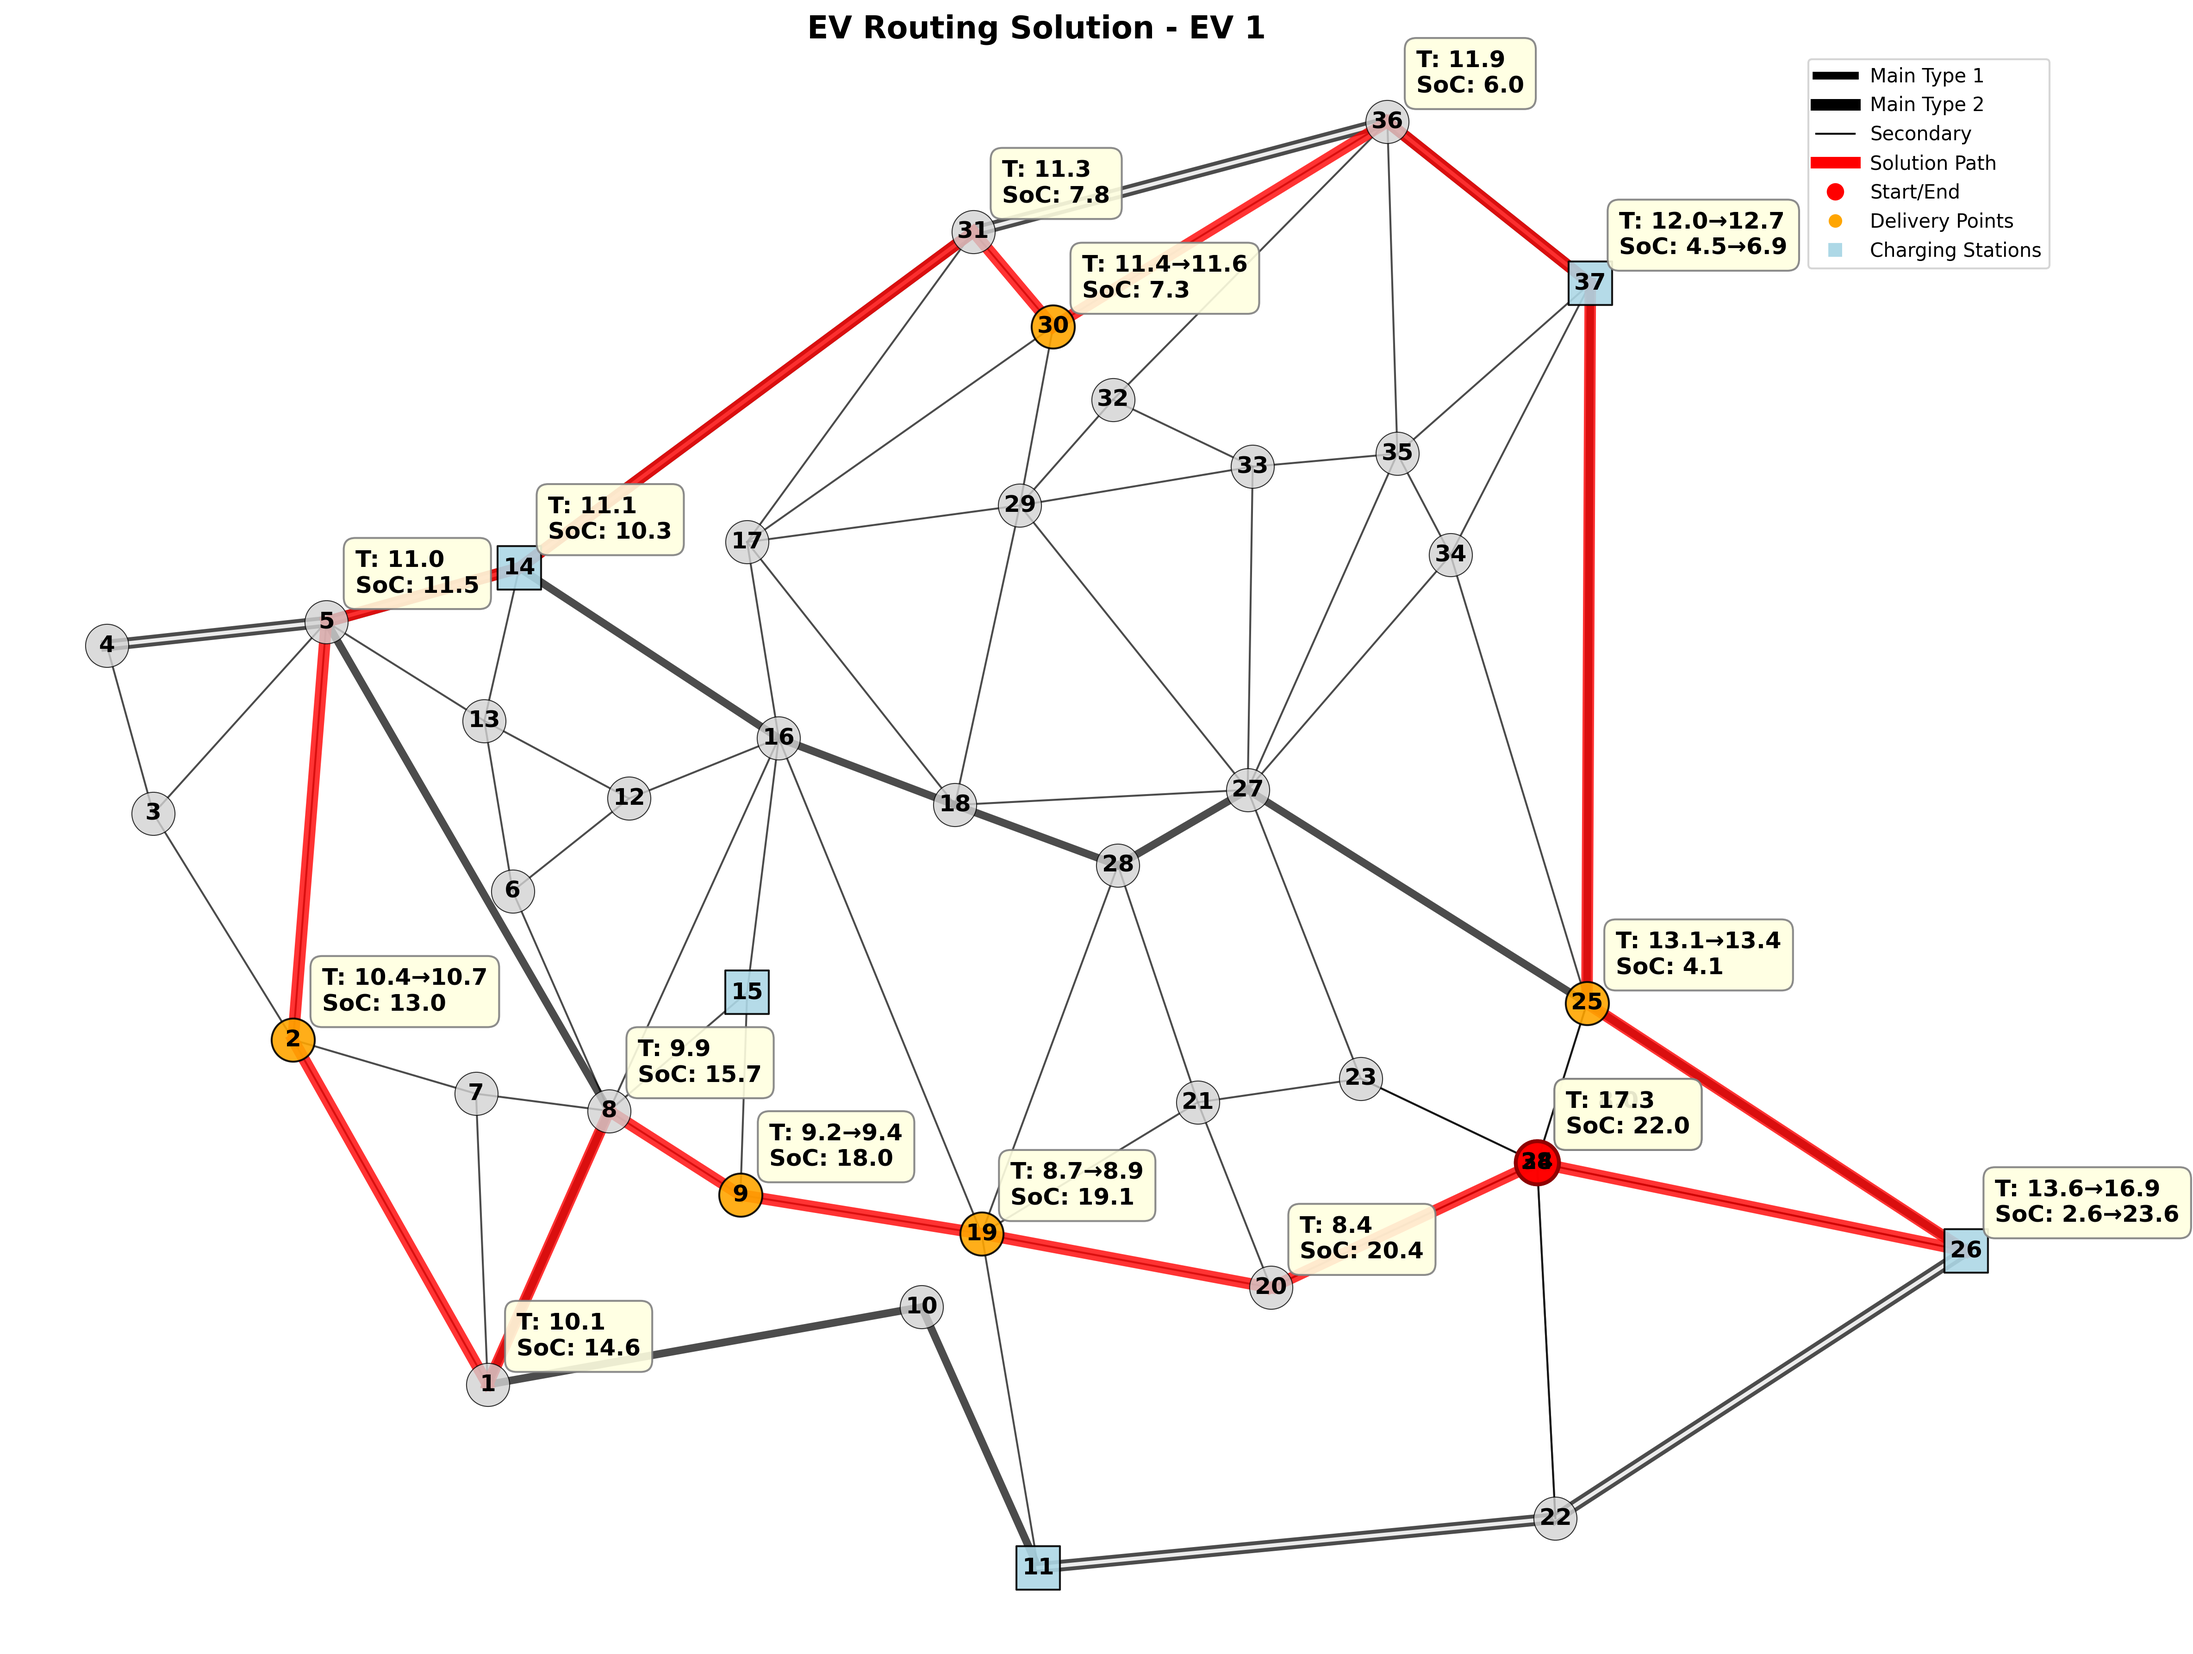
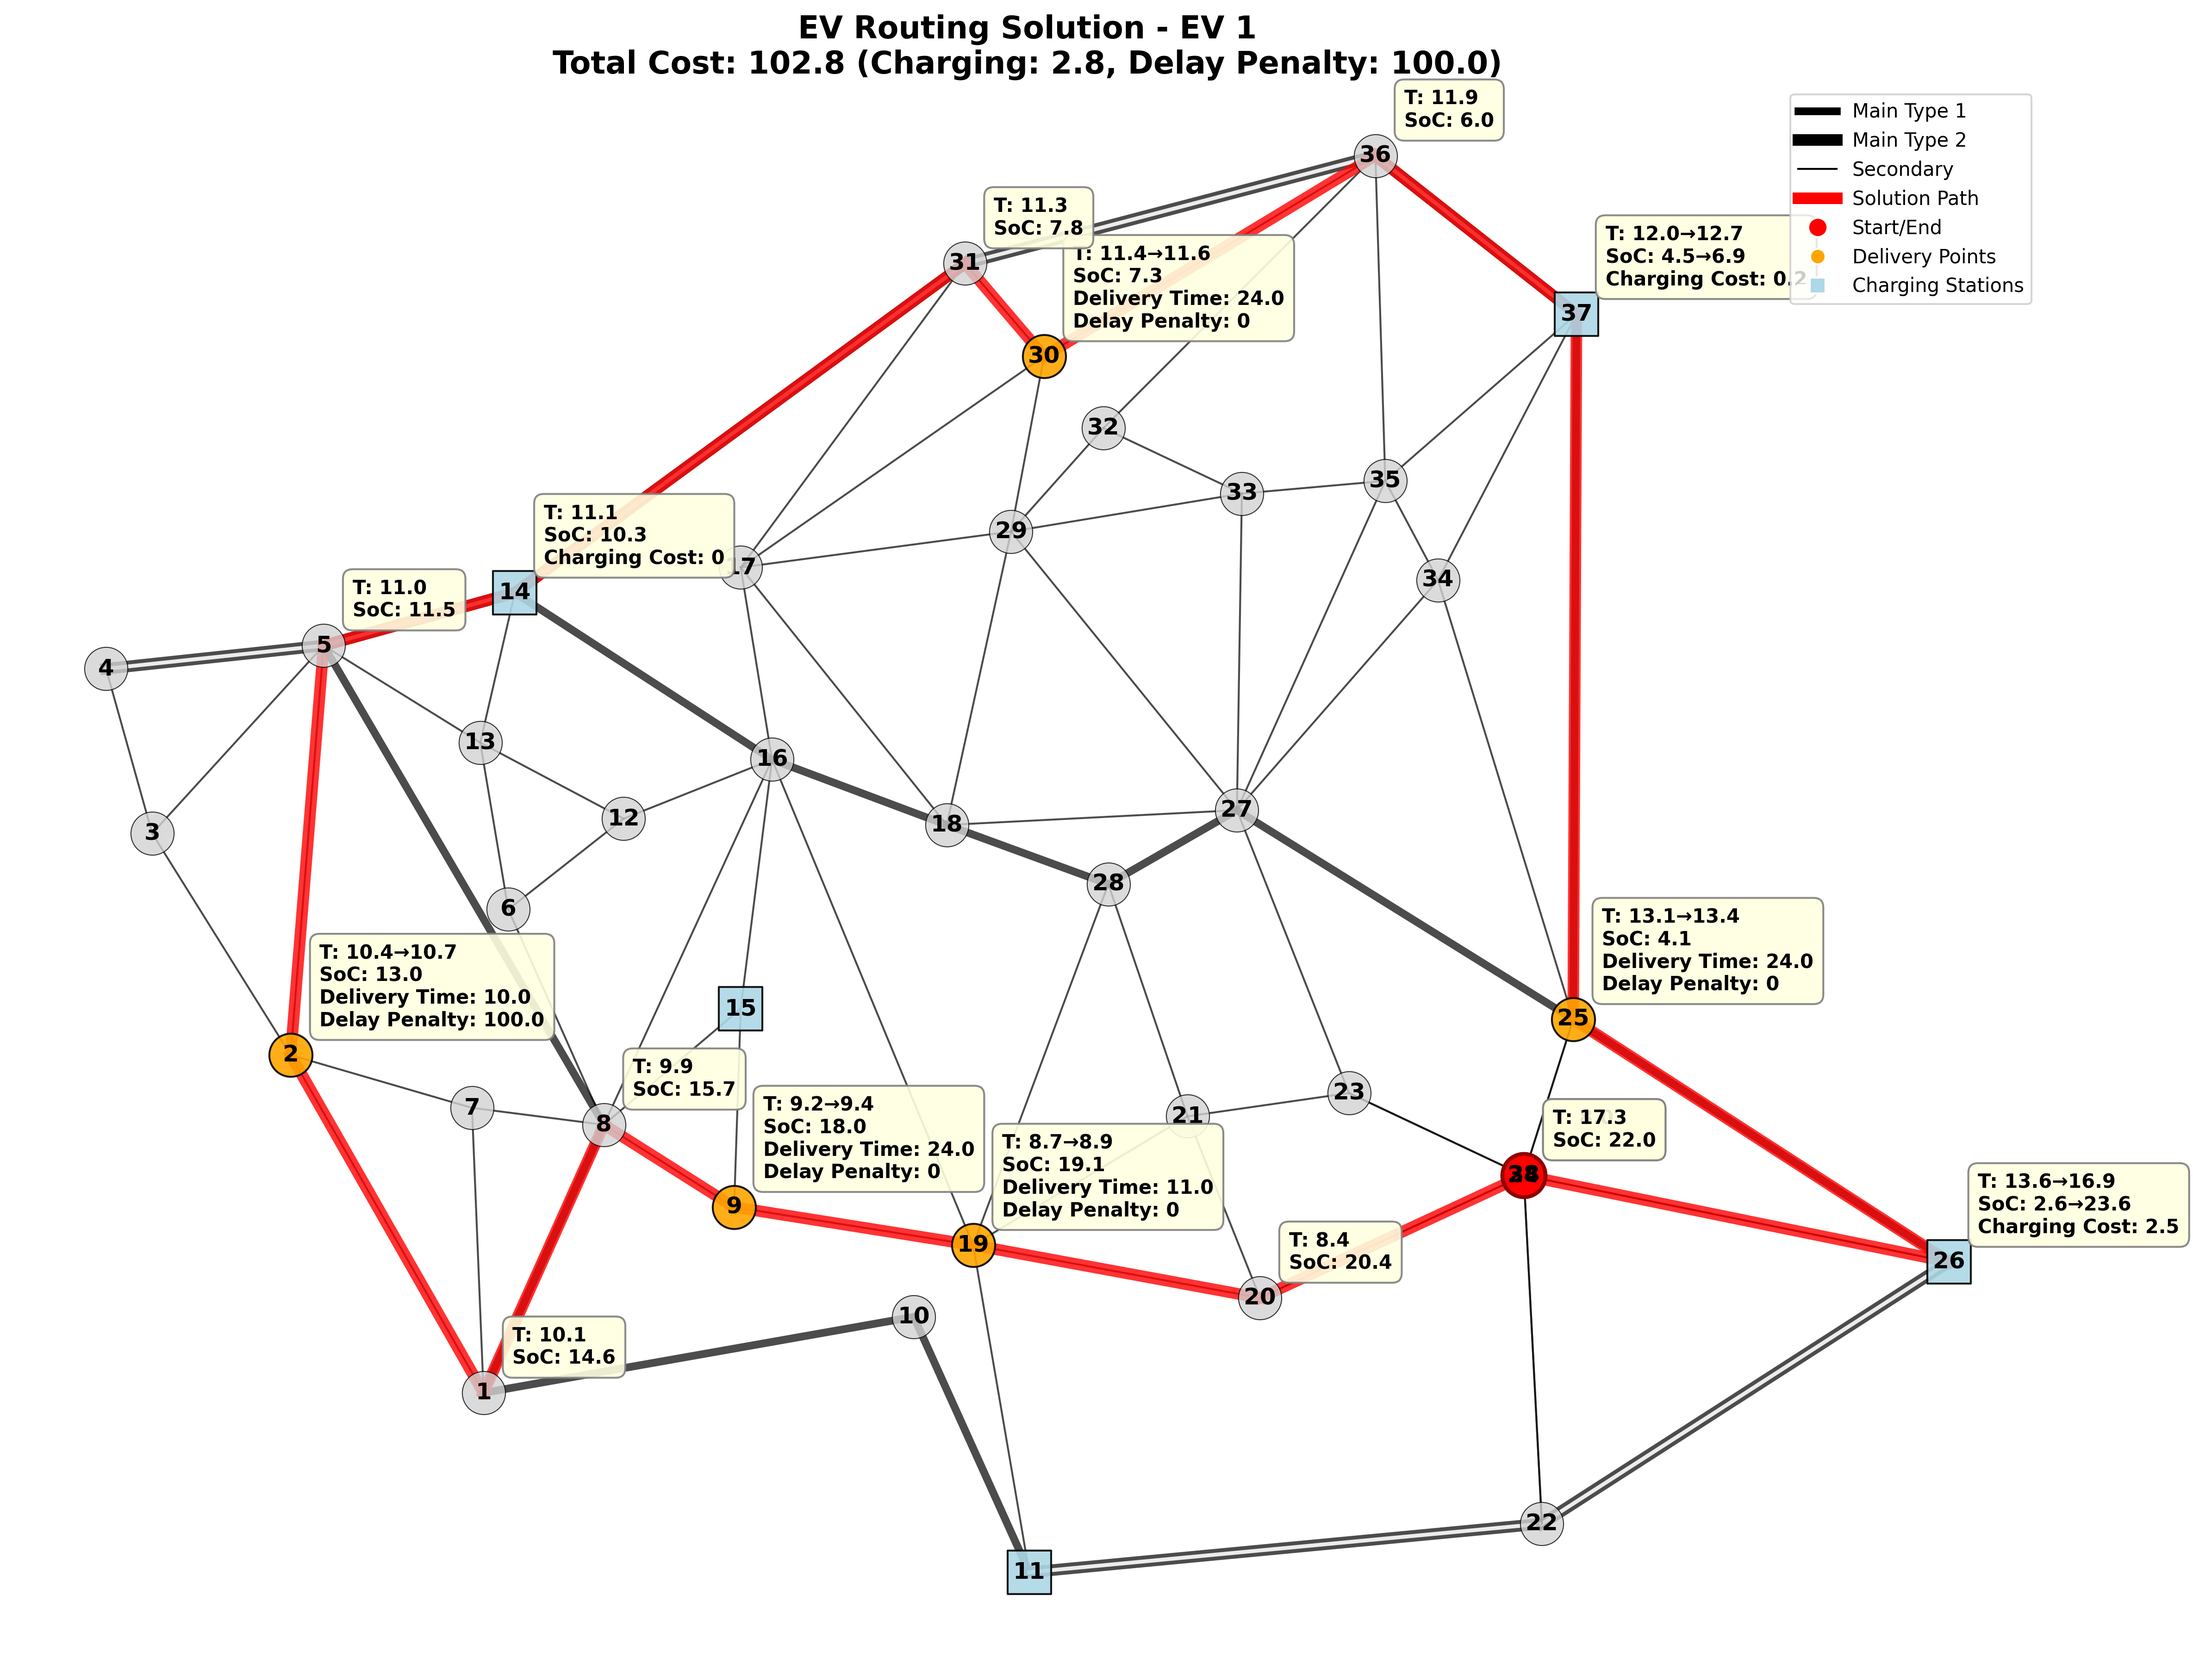
Include cost in map visualization

diff --git a/model/save_solution_data.py b/model/save_solution_data.py
@@ -279,11 +279,64 @@ def create_solution_map(solution_data, input_data, file_path: str, coordinates_p
             else:
                 info_text.append(f"SoC: {soc_arr:.{decimal_precision}f}→{soc_dep:.{decimal_precision}f}")
         
+        # Add objective function components
+        if intersection in delivery_points:
+            # Delivery time (parameter pTimeWithoutPenalty)
+            delivery_time = paths_data['pTimeWithoutPenalty'][intersection]
+            info_text.append(f"Delivery Time: {delivery_time:.{decimal_precision}f}")
+            
+            # Delay penalty calculation: pDelayPenalty * vTimeDelay
+            delay_time = row['vTimeDelay'] if row['vTimeDelay'] is not None else 0
+            delay_penalty_rate = paths_data['pDelayPenalty'][intersection]
+            delay_penalty = delay_penalty_rate * delay_time
+            if delay_penalty > eps:
+                info_text.append(f"Delay Penalty: {delay_penalty:.{decimal_precision}f}")
+            else:
+                info_text.append("Delay Penalty: 0")
+        
+        if intersection in charging_stations:
+            # Charging cost calculation: pChargingPrice * pChargingPower * vTimeCharging * pChargerEfficiencyRate
+            charging_time = row['vTimeCharging'] if row['vTimeCharging'] is not None else 0
+            if charging_time > eps:  # Only show if actually charging
+                charging_price = paths_data['pChargingPrice'][intersection]
+                charging_power = paths_data['pChargingPower'][intersection]
+                charger_efficiency = paths_data['pChargerEfficiencyRate'][intersection]
+                charging_cost = charging_price * charging_power * charging_time * charger_efficiency
+                info_text.append(f"Charging Cost: {charging_cost:.{decimal_precision}f}")
+            else:
+                info_text.append("Charging Cost: 0")
+        
         if info_text:
             plt.annotate('\n'.join(info_text), 
                        xy=pos[intersection], xytext=(15, 15),
-                       textcoords='offset points', fontsize=12, fontweight='bold',
+                       textcoords='offset points', fontsize=10, fontweight='bold',
                        bbox=dict(boxstyle='round,pad=0.5', facecolor='lightyellow', alpha=0.9, edgecolor='gray'))
+    
+    # Calculate and display total objective function value
+    total_charging_cost = 0
+    total_delay_penalty = 0
+    
+    for _, row in intersections_df.iterrows():
+        intersection = row['intersection']
+        
+        # Sum charging costs
+        if intersection in charging_stations:
+            charging_time = row['vTimeCharging'] if row['vTimeCharging'] is not None else 0
+            if charging_time > eps:
+                charging_price = paths_data['pChargingPrice'][intersection]
+                charging_power = paths_data['pChargingPower'][intersection]
+                charger_efficiency = paths_data['pChargerEfficiencyRate'][intersection]
+                charging_cost = charging_price * charging_power * charging_time * charger_efficiency
+                total_charging_cost += charging_cost
+        
+        # Sum delay penalties
+        if intersection in delivery_points:
+            delay_time = row['vTimeDelay'] if row['vTimeDelay'] is not None else 0
+            delay_penalty_rate = paths_data['pDelayPenalty'][intersection]
+            delay_penalty = delay_penalty_rate * delay_time
+            total_delay_penalty += delay_penalty
+    
+    total_objective = total_charging_cost + total_delay_penalty
     
     # Add legend
     legend_elements = [
@@ -297,7 +350,12 @@ def create_solution_map(solution_data, input_data, file_path: str, coordinates_p
     ]
     plt.legend(handles=legend_elements, loc='upper right')
     
-    plt.title(f'EV Routing Solution - EV {ev}', fontsize=16, fontweight='bold')
+    # Update title to include objective function value
+    plt.title(f'EV Routing Solution - EV {ev}\n'
+              f'Total Cost: {total_objective:.{decimal_precision}f} '
+              f'(Charging: {total_charging_cost:.{decimal_precision}f}, '
+              f'Delay Penalty: {total_delay_penalty:.{decimal_precision}f})', 
+              fontsize=16, fontweight='bold')
     plt.tight_layout()
     
     # Save image
